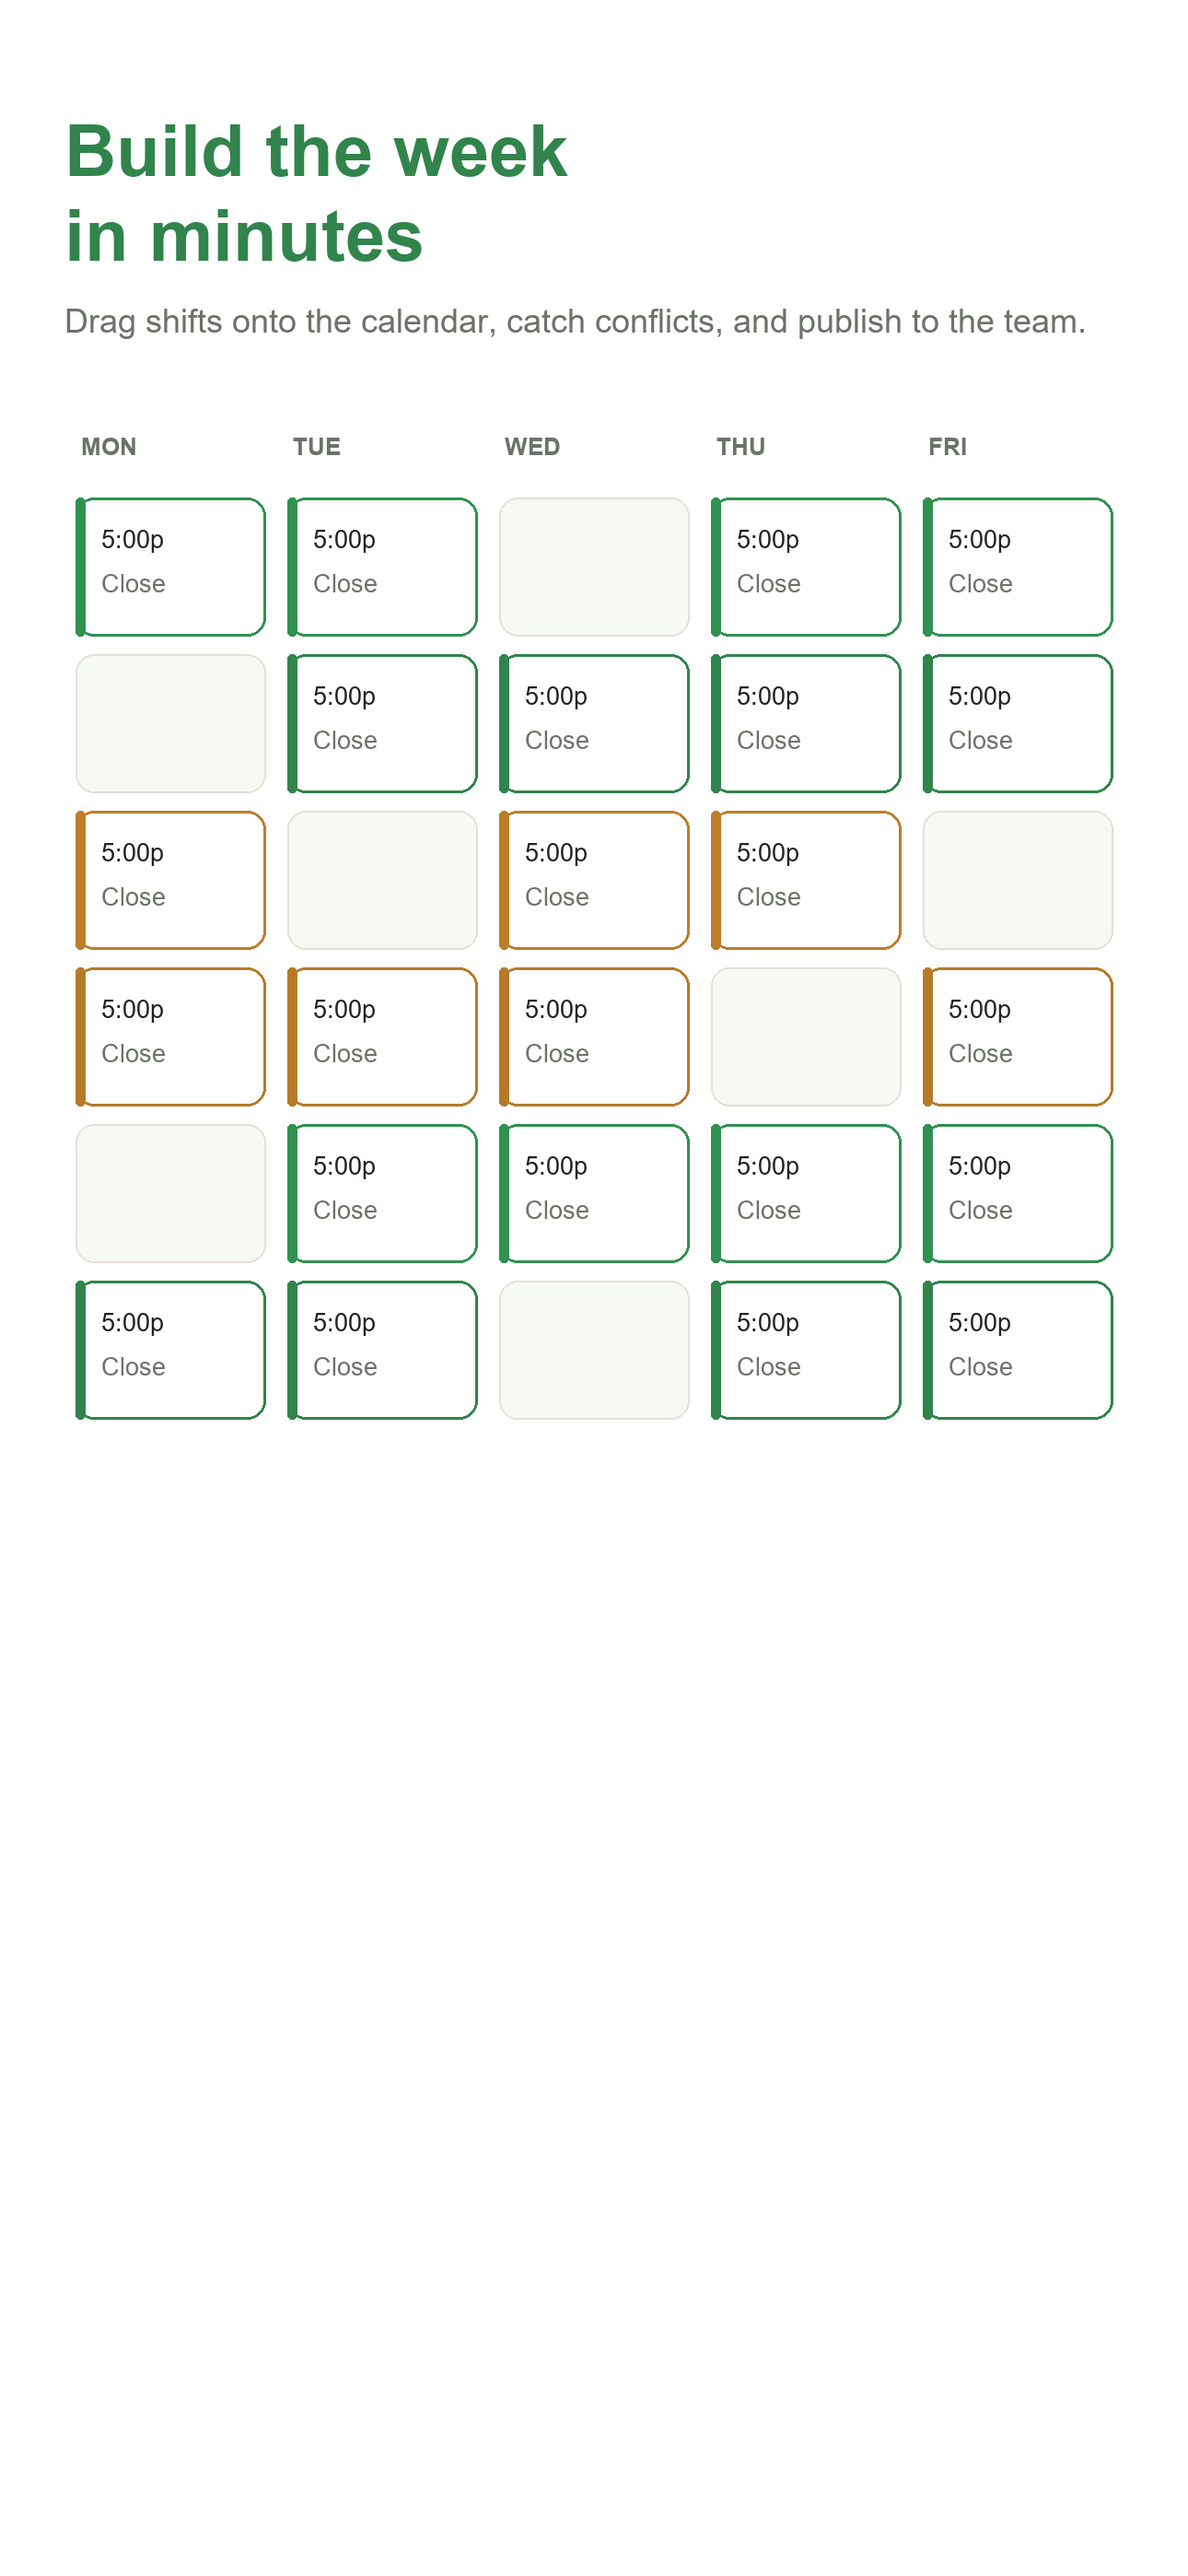
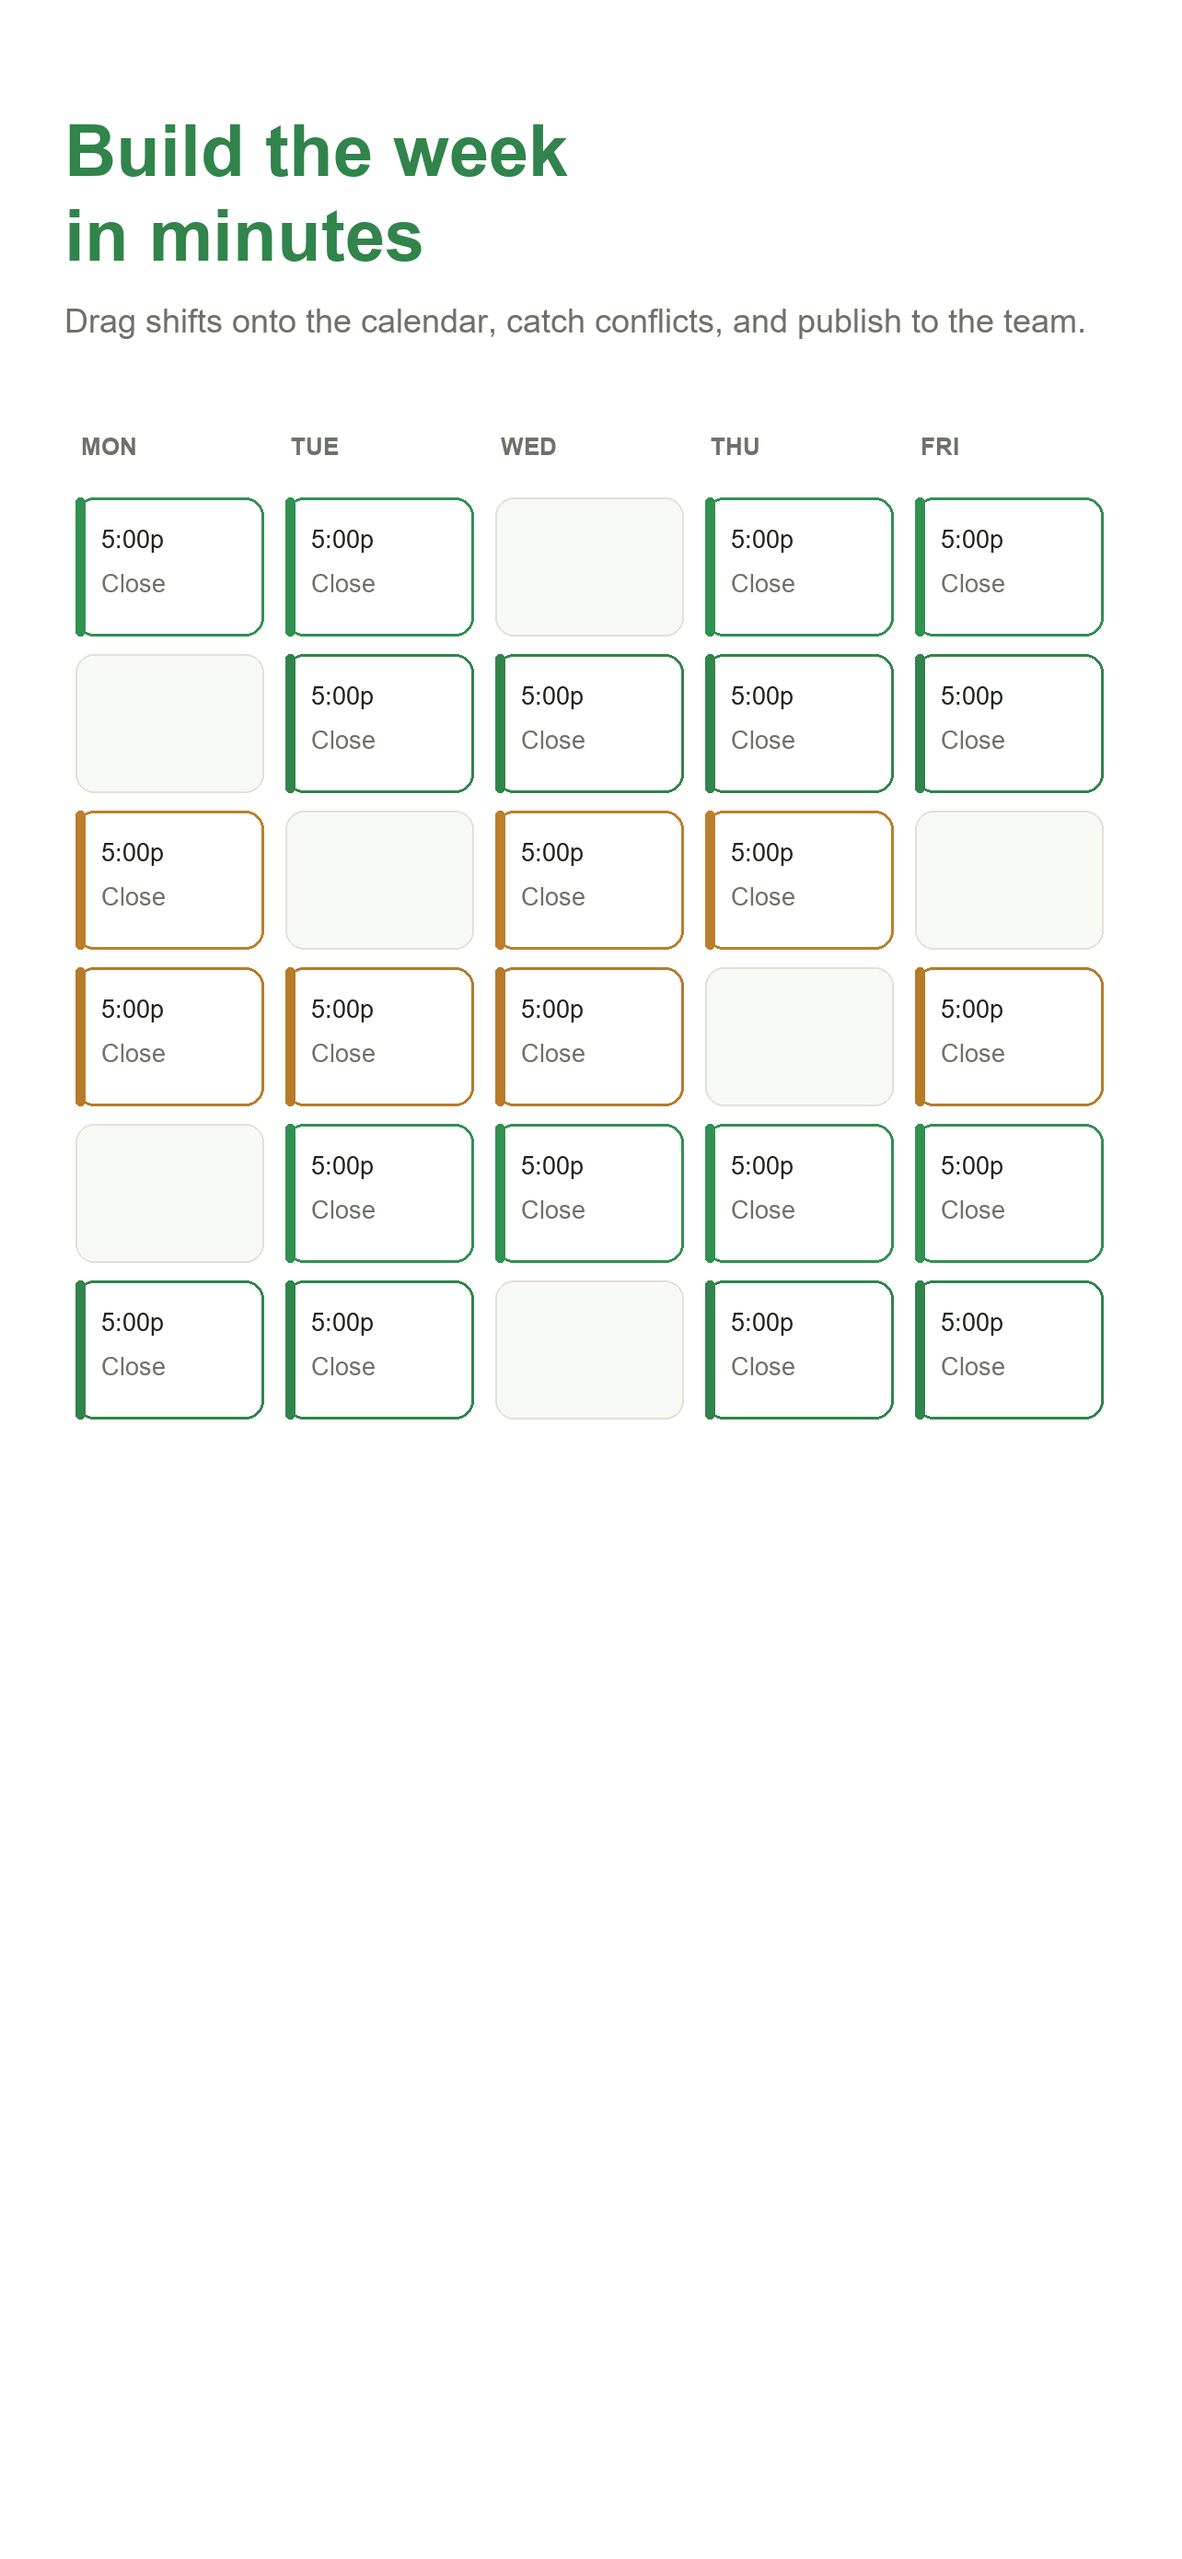
Resize App Store screenshots for ASC

diff --git a/scripts/make-review-screenshot.py b/scripts/make-review-screenshot.py
@@ -1,6 +1,6 @@
 """Generate a paywall review screenshot for App Store Connect.
 Matches the app's clean white theme and uses an App-Store-accepted iPhone
-portrait resolution (1290x2796) so ASC accepts the upload.
+6.5" portrait resolution (1284x2778) so ASC accepts the upload.
 
 Products: Starter $79.99 / Pro $149.99 / Enterprise $299.99 - one 'pro'
 entitlement unlocks the whole app.
@@ -8,7 +8,7 @@ entitlement unlocks the whole app.
 from PIL import Image, ImageDraw, ImageFont
 import os
 
-W, H = 1290, 2796  # iPhone portrait, current accepted App Store screenshot size
+W, H = 1284, 2778  # iPhone 6.5" accepted App Store screenshot size
 
 BG = (255, 255, 255)
 SURFACE = (255, 255, 255)

diff --git a/scripts/make-appstore-screenshots.py b/scripts/make-appstore-screenshots.py
@@ -1,4 +1,4 @@
-"""Generate App Store product-page screenshots (1290x2796, RGB, no alpha)
+"""Generate App Store product-page screenshots (1284x2778, RGB, no alpha)
 matching Venue Wrangler's current clean white theme.
 Each is a caption headline + a stylized feature panel. Output to
 screenshots/appstore/.
@@ -6,7 +6,7 @@ screenshots/appstore/.
 from PIL import Image, ImageDraw, ImageFont
 import os
 
-W, H = 1290, 2796
+W, H = 1284, 2778
 BG = (255, 255, 255)
 SURF = (255, 255, 255)
 SURF2 = (247, 249, 245)
